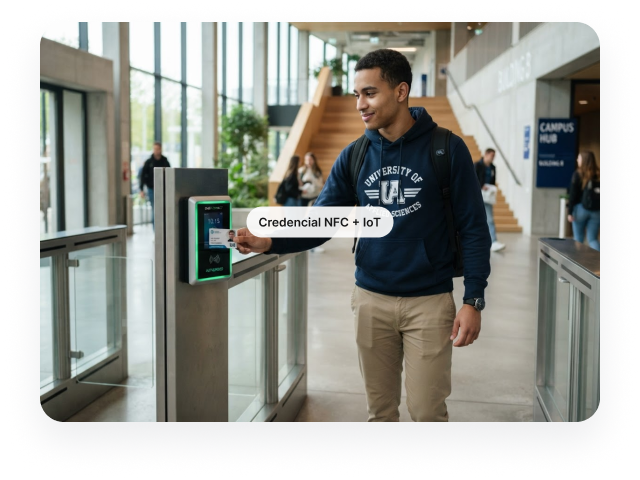
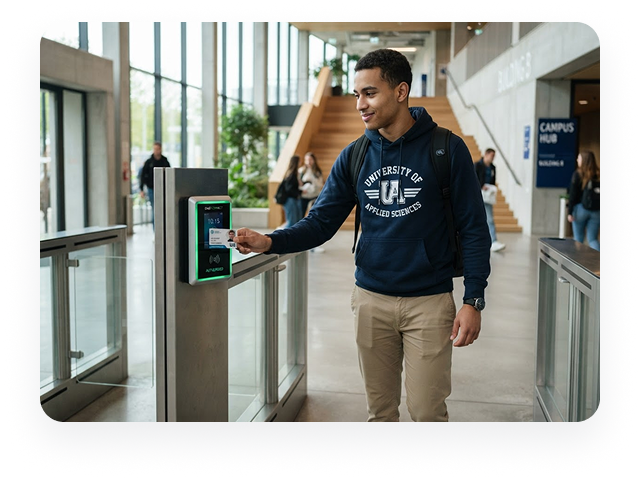
hotfix: fixed image badges

Changed region(s): [[0.375, 0.3438, 0.6562, 0.5]]

diff --git a/js/i18n.js b/js/i18n.js
@@ -26,10 +26,12 @@ const TRANSLATIONS = {
 
     "hero.title": "Attendance, access and occupancy in a single credential",
     "hero.text": "Manage presence control, facility security and real-time monitoring of university spaces through NFC credentials and integrated IoT devices.",
+    "hero.badge": "NFC credential + IoT",
     "hero.alt": "A student taps an NFC credential on an IoT reader at a campus entrance",
 
     "eco.title": "One ecosystem for your campus",
     "eco.text": "Connect academic control, physical infrastructure and campus services in a unified digital environment, ensuring security, traceability and seamless integration.",
+    "eco.badge": "Connected campus",
     "eco.alt": "Students using their NFC credentials at the campus entrances",
 
     "features.title": "Main features",
@@ -58,9 +60,11 @@ const TRANSLATIONS = {
     "segments.title": "Who is TarjePAFI for?",
     "segments.admin.title": "Administrators and university management",
     "segments.admin.text": "Supervise security, optimize the use of spaces and get consolidated campus reports.",
+    "segments.admin.badge": "University management",
     "segments.admin.alt": "University administrators reviewing attendance and occupancy dashboards",
     "segments.student.title": "Students",
     "segments.student.text": "Access authorized venues and check in to class quickly, simply and reliably.",
+    "segments.student.badge": "Student experience",
     "segments.student.alt": "Student tapping an NFC credential on a reader to enter a campus building",
 
     "faq.title": "Frequently asked questions",
@@ -129,10 +133,12 @@ const TRANSLATIONS = {
 
     "hero.title": "Asistencia, accesos y aforo en una sola credencial",
     "hero.text": "Gestione el control de presencia, la seguridad de recintos y el monitoreo de espacios universitarios en tiempo real mediante credenciales NFC y dispositivos IoT integrados.",
+    "hero.badge": "Credencial NFC + IoT",
     "hero.alt": "Un estudiante acerca su credencial NFC a un lector IoT en el ingreso del campus",
 
     "eco.title": "Un solo ecosistema para tu campus",
     "eco.text": "Conecte el control académico, la infraestructura física y los servicios del campus en un entorno digital unificado, garantizando seguridad, trazabilidad e integración fluida.",
+    "eco.badge": "Campus conectado",
     "eco.alt": "Estudiantes usando sus credenciales NFC en los ingresos del campus",
 
     "features.title": "Funcionalidades principales",
@@ -161,9 +167,11 @@ const TRANSLATIONS = {
     "segments.title": "¿Para quién es TarjePAFI?",
     "segments.admin.title": "Administradores y gestión universitaria",
     "segments.admin.text": "Supervise la seguridad, optimice el uso de espacios y obtenga reportes consolidados del campus.",
+    "segments.admin.badge": "Gestión universitaria",
     "segments.admin.alt": "Administradores universitarios revisando dashboards de asistencia y aforo",
     "segments.student.title": "Estudiantes",
     "segments.student.text": "Acceda a recintos autorizados y registre asistencia de forma rápida, simple y confiable.",
+    "segments.student.badge": "Experiencia estudiantil",
     "segments.student.alt": "Estudiante acercando su credencial NFC a un lector para ingresar a un edificio del campus",
 
     "faq.title": "Preguntas frecuentes",

diff --git a/index.html b/index.html
@@ -75,6 +75,7 @@
         </div>
         <figure class="media-photo media-hero">
           <img src="assets/images/hero.png" width="640" height="480" alt="A student taps an NFC credential on an IoT reader at a campus entrance" data-i18n-alt="hero.alt">
+          <figcaption class="media-badge" data-i18n="hero.badge">NFC credential + IoT</figcaption>
         </figure>
       </div>
     </section>
@@ -86,8 +87,9 @@
           <h2 id="ecosystem-title" class="display-2" data-i18n="eco.title">One ecosystem for your campus</h2>
           <p class="body-text" data-i18n="eco.text">Connect academic control, physical infrastructure and campus services in a unified digital environment, ensuring security, traceability and seamless integration.</p>
         </div>
-        <figure class="media-photo">
-          <img src="assets/images/ecosystem.png" width="552" height="300" loading="lazy" alt="Students using their NFC credentials at the campus entrances" data-i18n-alt="eco.alt">
+        <figure class="media-photo media-eco">
+          <img src="assets/images/ecosystem.png" width="584" height="364" loading="lazy" alt="Students using their NFC credentials at the campus entrances" data-i18n-alt="eco.alt">
+          <figcaption class="media-badge" data-i18n="eco.badge">Connected campus</figcaption>
         </figure>
       </div>
     </section>
@@ -196,7 +198,8 @@
         <div class="segment-grid">
           <article class="card segment-card">
             <figure class="media-photo media-segment">
-              <img src="assets/images/segment-admin.png" width="580" height="180" loading="lazy" alt="University administrators reviewing attendance and occupancy dashboards" data-i18n-alt="segments.admin.alt">
+              <img src="assets/images/segment-admin.png" width="363" height="180" loading="lazy" alt="University administrators reviewing attendance and occupancy dashboards" data-i18n-alt="segments.admin.alt">
+              <figcaption class="media-badge" data-i18n="segments.admin.badge">University management</figcaption>
             </figure>
             <h3 class="card-title" data-i18n="segments.admin.title">Administrators and university management</h3>
             <p class="card-text" data-i18n="segments.admin.text">Supervise security, optimize the use of spaces and get consolidated campus reports.</p>
@@ -204,6 +207,7 @@
           <article class="card segment-card">
             <figure class="media-photo media-segment">
               <img src="assets/images/segment-student.png" width="580" height="180" loading="lazy" alt="Student tapping an NFC credential on a reader to enter a campus building" data-i18n-alt="segments.student.alt">
+              <figcaption class="media-badge" data-i18n="segments.student.badge">Student experience</figcaption>
             </figure>
             <h3 class="card-title" data-i18n="segments.student.title">Students</h3>
             <p class="card-text" data-i18n="segments.student.text">Access authorized venues and check in to class quickly, simply and reliably.</p>

diff --git a/css/styles.css b/css/styles.css
@@ -319,13 +319,58 @@ button { cursor: pointer; }
 .menu-toggle[aria-expanded="true"] .menu-toggle-bar:nth-child(3) { transform: translateY(-7px) rotate(-45deg); }
 
 /* ---------- Photos (Figma exports: corners, shadow and badge are baked in) ---------- */
+.media-photo { position: relative; }
 .media-photo img {
   width: 100%;
   height: auto;
 }
-/* The hero export includes ~40px of transparent padding for its shadow;
-   pull it outward so the photo edges line up with the grid. */
-.media-hero { margin: -6% -6.5% -10%; }
+
+/* The hero and ecosystem exports include transparent padding for their
+   drop shadow. The figure box matches the photo area only; the image is
+   enlarged and offset so the shadow spills outside it. Values come from
+   each export's opaque area (margins in % refer to the figure width). */
+.media-hero img {               /* 640x480, photo 560x400 at (40,22) */
+  width: calc(100% * 640 / 560);
+  max-width: none;
+  margin: calc(-100% * 22 / 560) 0 calc(-100% * 58 / 560) calc(-100% * 40 / 560);
+}
+.media-eco img {                /* 584x364, photo 520x300 at (32,16) */
+  width: calc(100% * 584 / 520);
+  max-width: none;
+  margin: calc(-100% * 16 / 520) 0 calc(-100% * 48 / 520) calc(-100% * 32 / 520);
+}
+
+/* Segment photos: same frame size even though the exports differ in width */
+.media-segment {
+  border-radius: 12px;
+  overflow: hidden;
+}
+.media-segment img {
+  aspect-ratio: 580 / 180;
+  object-fit: cover;
+}
+
+.media-badge {
+  position: absolute;
+  left: 50%;
+  top: 50%;
+  transform: translate(-50%, -50%);
+  max-width: calc(100% - 32px);
+  padding: 6px 14px;
+  border-radius: 999px;
+  background: var(--white);
+  box-shadow: 0 4px 14px rgba(15, 23, 42, 0.18);
+  font-size: 0.75rem;
+  font-weight: 600;
+  line-height: 1.4;
+  color: var(--text);
+  white-space: nowrap;
+  overflow: hidden;
+  text-overflow: ellipsis;
+}
+
+/* Let the photo shadows reach the screen edge without causing side scroll */
+main > section { overflow-x: clip; }
 
 /* ---------- Hero ---------- */
 .hero { padding: var(--s-9) 0; }
@@ -436,6 +481,7 @@ button { cursor: pointer; }
 }
 .segment-card { padding: var(--s-4) var(--s-4) var(--s-5); }
 .segment-card .media-segment { margin-bottom: var(--s-4); }
+.segment-card .card-title { margin-top: var(--s-1); }
 .segment-card .card-title,
 .segment-card .card-text { padding: 0 var(--s-2); }
 
@@ -786,10 +832,6 @@ body.modal-open { overflow: hidden; }
   .header-actions { gap: var(--s-2); }
 
   .btn-row .btn { flex: 1 1 0; padding: 0 var(--s-3); }
-
-  /* Never pull the hero photo past the 16px page gutter */
-  .media-hero { margin-left: max(-6.5%, calc(-1 * var(--s-4))); margin-right: max(-6.5%, calc(-1 * var(--s-4))); }
-
   .feature-card { padding: var(--s-4); }
 
   .steps {

diff --git a/README.md b/README.md
@@ -41,4 +41,4 @@ Deployed with GitHub Pages from the `main` branch, root folder (`Settings > Page
 ## Notes
 
 - The contact form has no backend yet. Submissions are simulated in `js/main.js` (`initForms`).
-- The photos in `assets/images/*.png` are exported from the Figma mock-up with their Spanish badges baked in. To make the badges follow the language switch, export the photos without the badge layer and add the badges back as HTML.
+- The photos in `assets/images/*.png` are exported from the Figma mock-up without their badges. The badges are HTML (`.media-badge`), so they follow the language switch.
